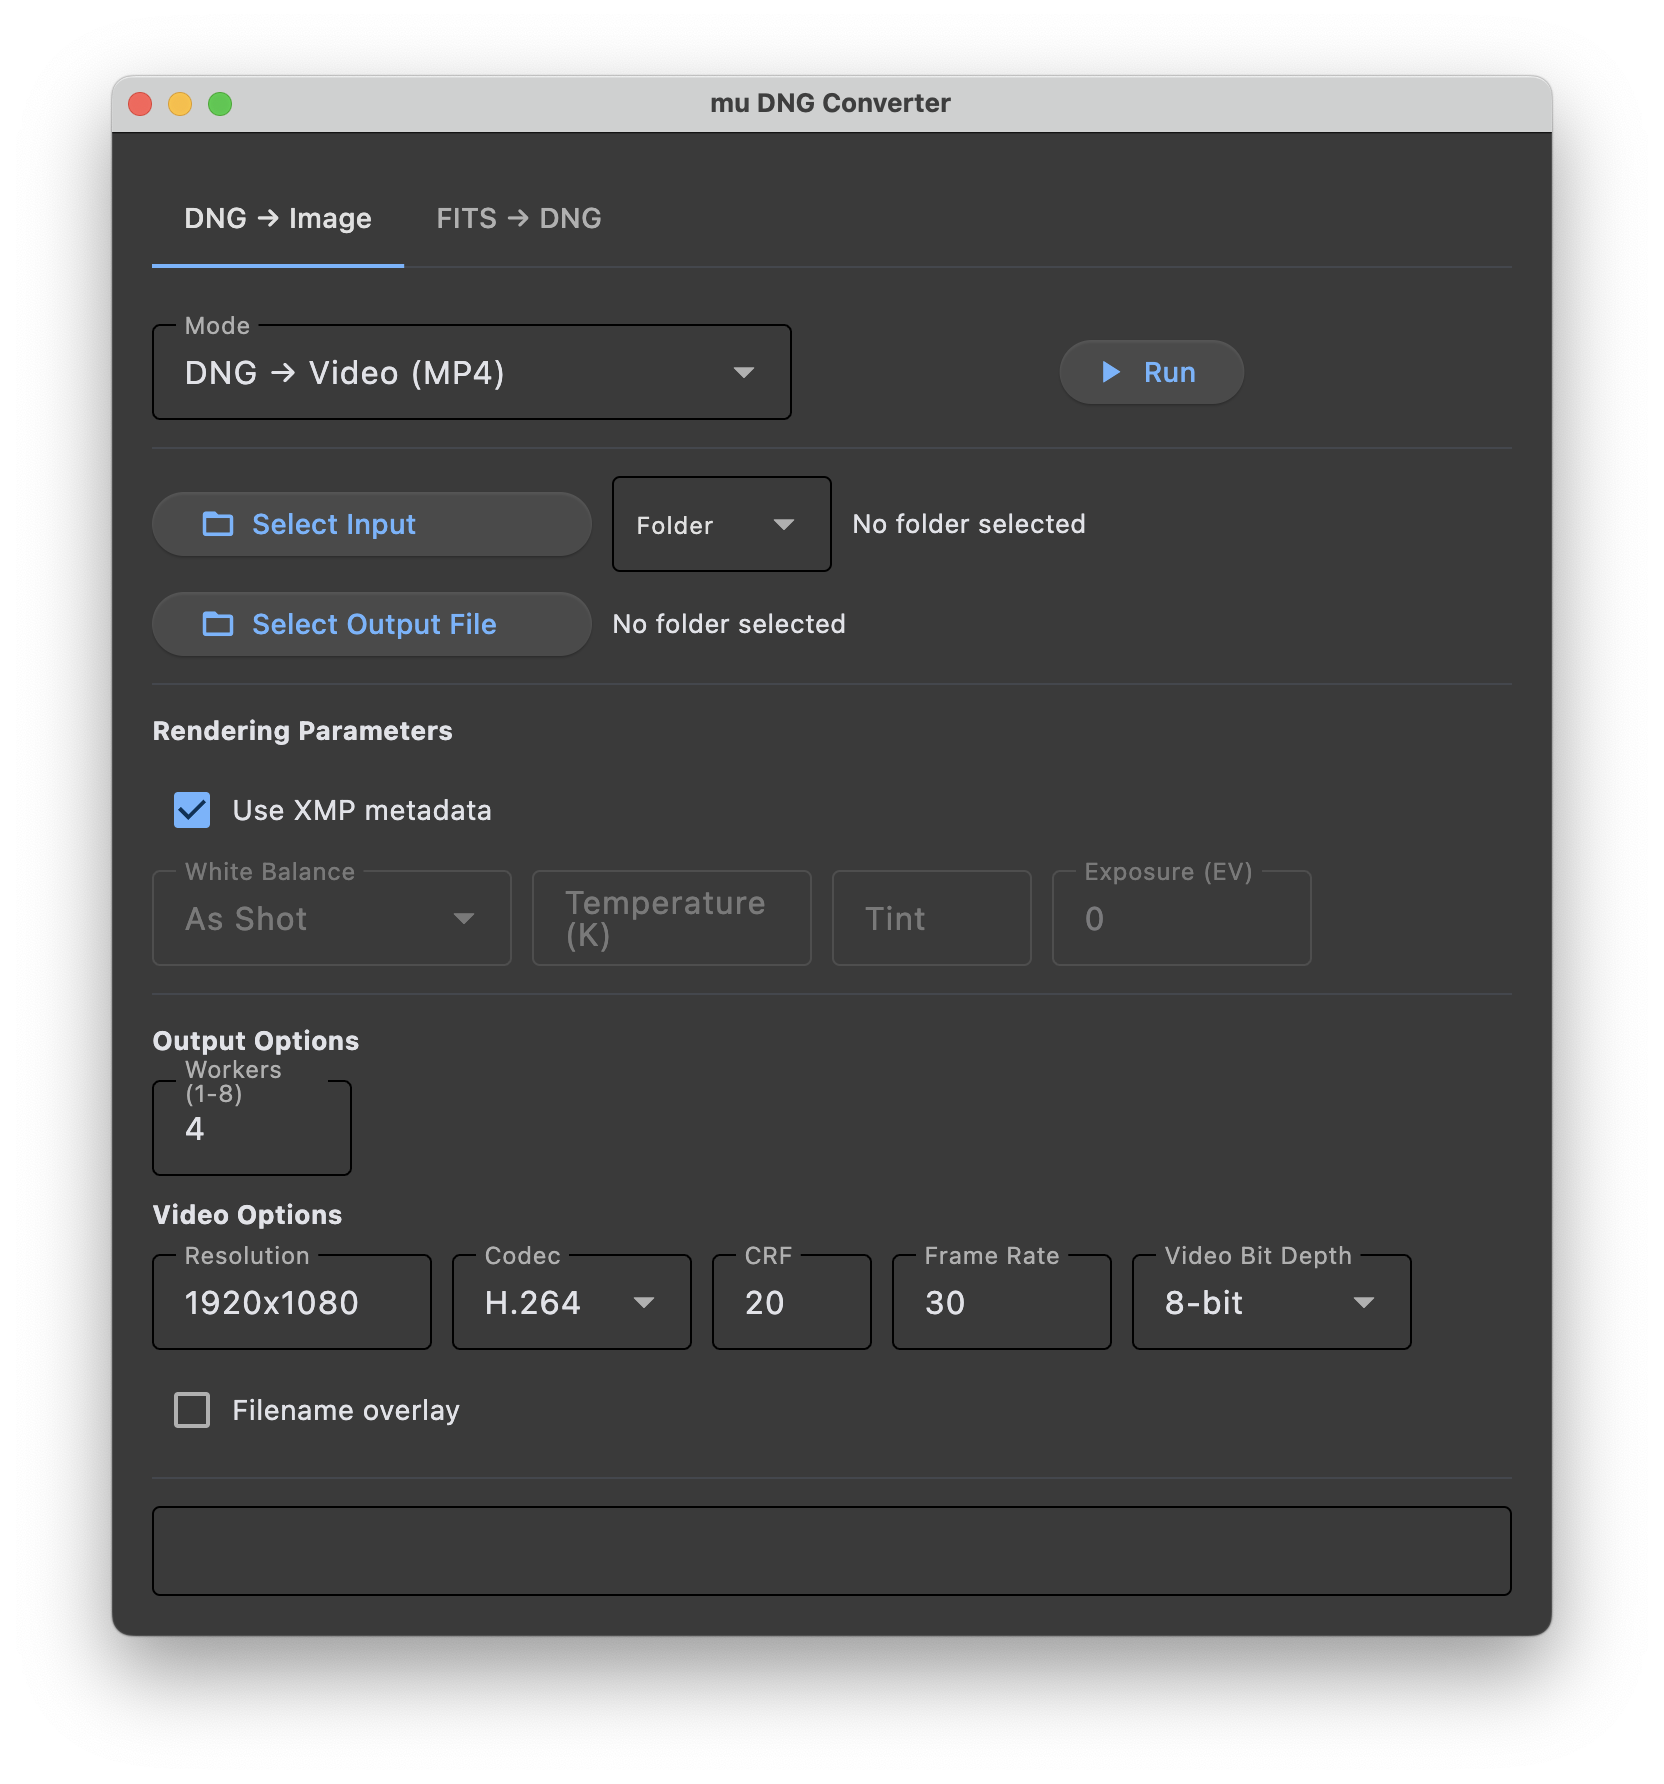
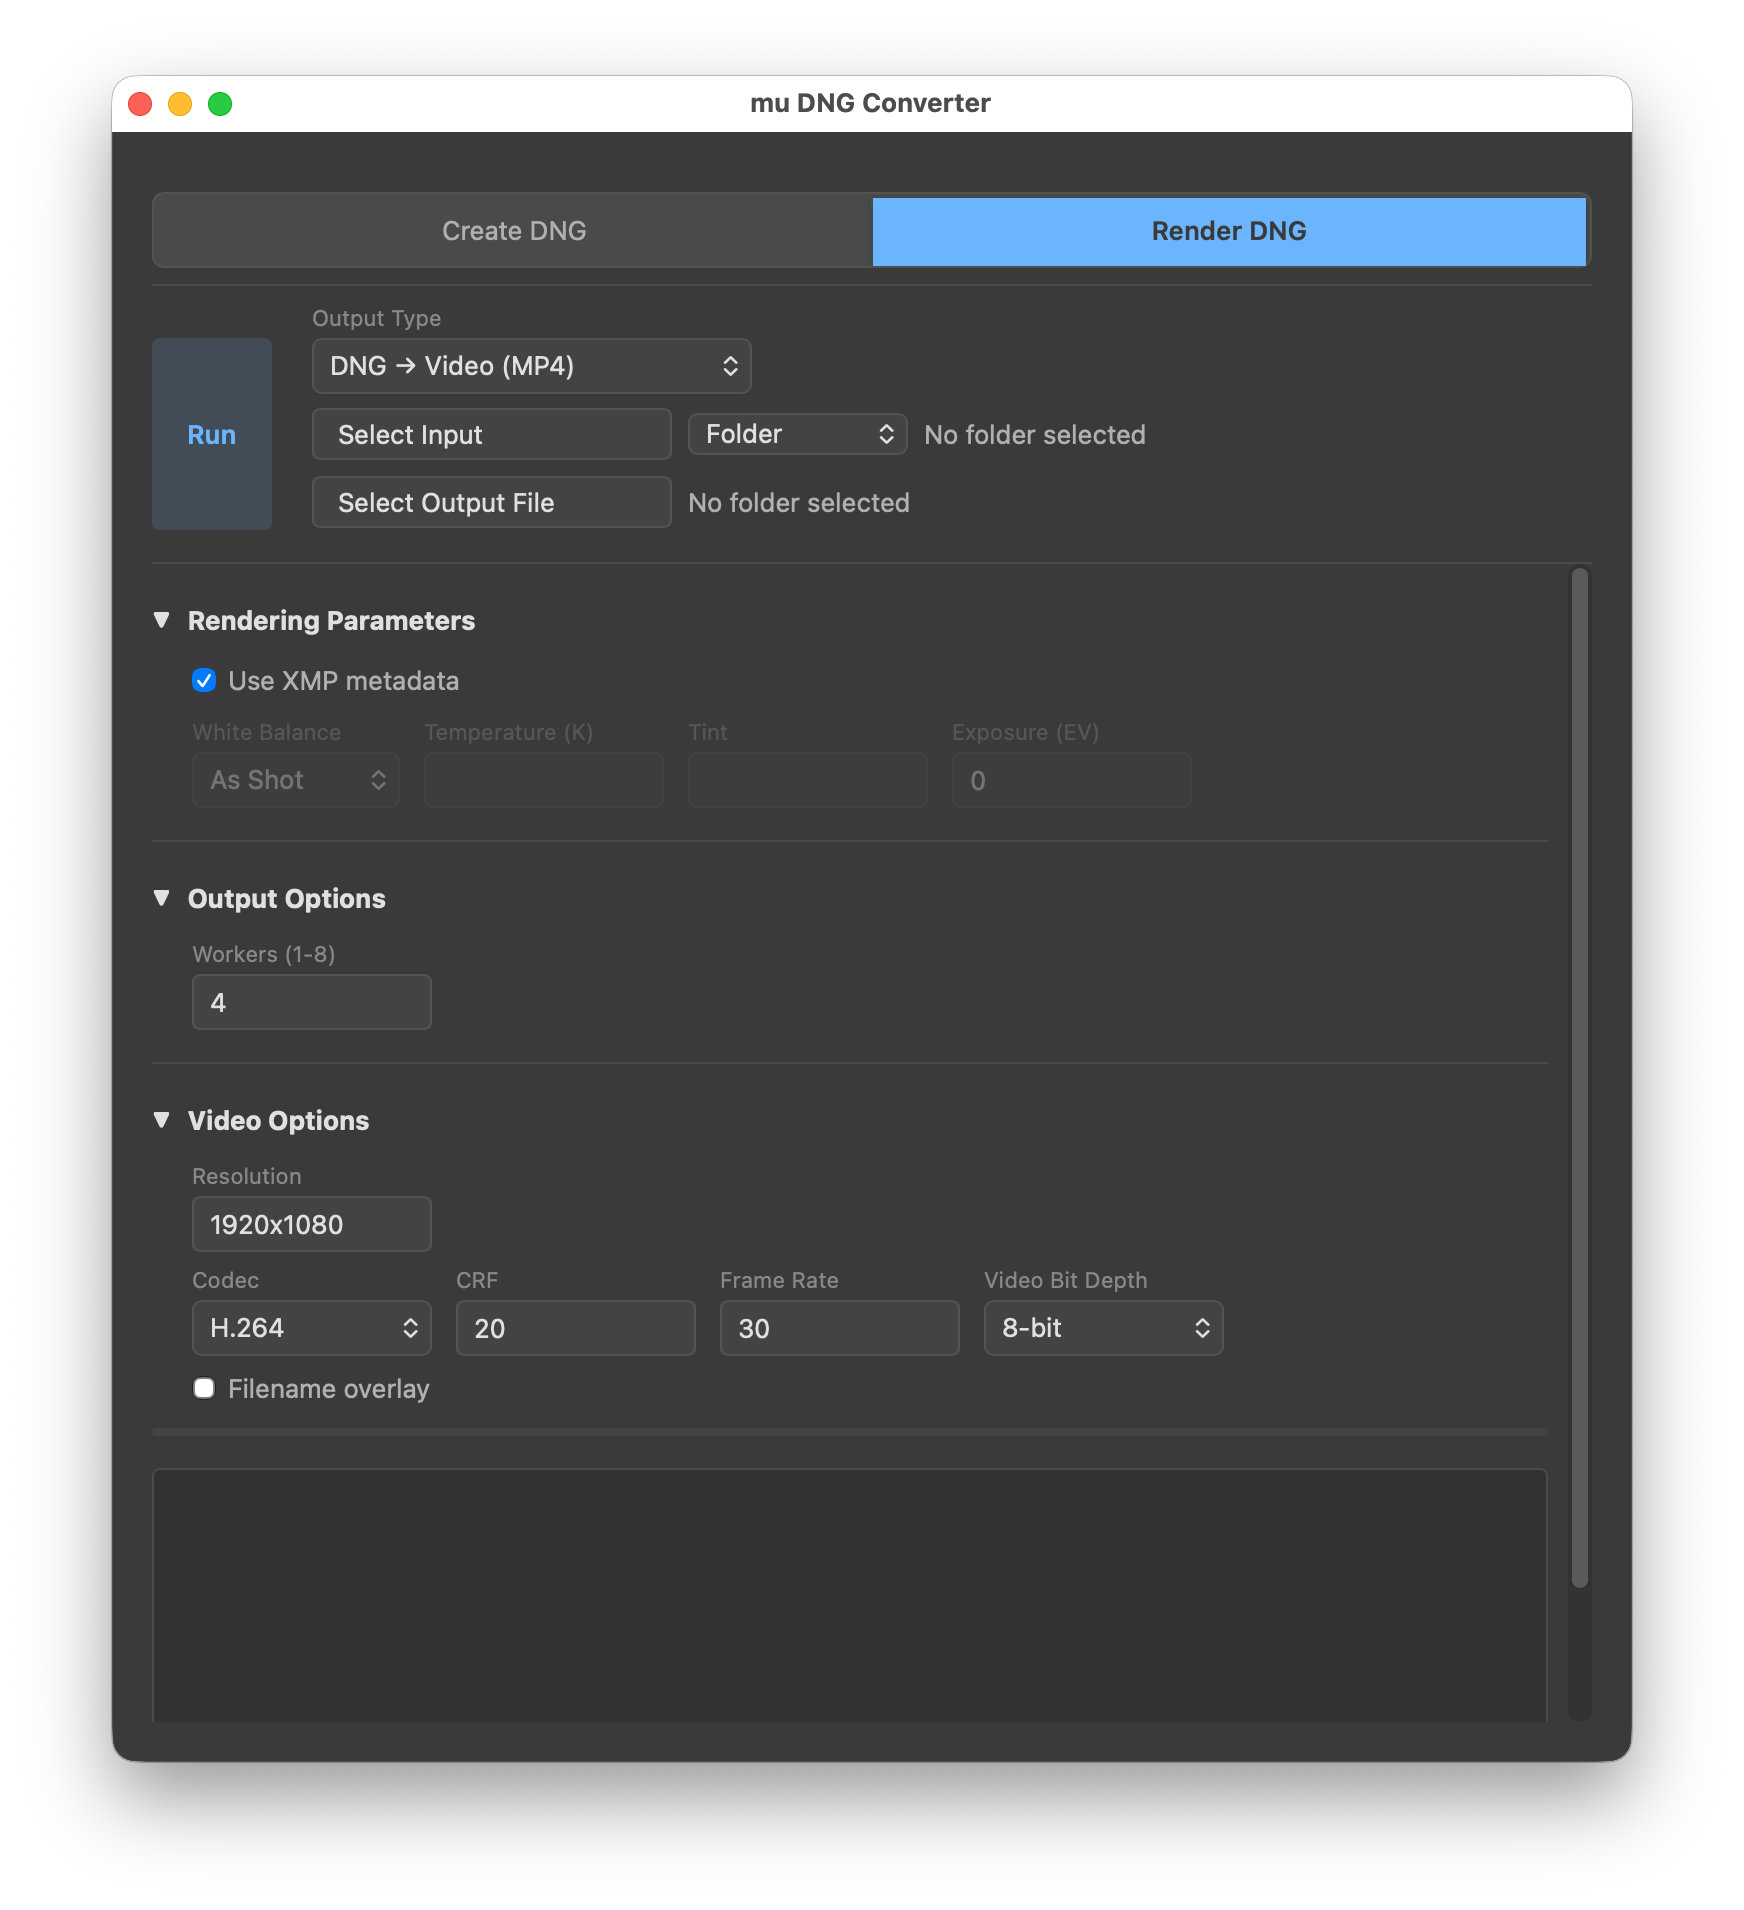
Update documentation: remove Flet references, add PyWebView, document Create DNG tab

diff --git a/mu-dng-converter/web/app.js b/mu-dng-converter/web/app.js
@@ -395,7 +395,7 @@ class DNGConverter {
             this.applyWBPreset('create-dng');
         });
 
-        // Value clamping — mirrors Flet's _clamp_float / _clamp_workers
+        // Value clamping for numeric inputs
         this.addClamp('create-dng-jxl-distance', 0.0, 25.0, 1.0);
         this.addClamp('create-dng-jxl-effort',   1,   9,   5);
         this.addClamp('create-dng-scale',         0.125, 1.0, 1.0);

diff --git a/mu-dng-converter/main.py b/mu-dng-converter/main.py
@@ -47,7 +47,7 @@ def main():
     web_dir = Path(__file__).parent / "web"
     index_file = web_dir / "index.html"
     
-    # Create a simple window with the same dimensions as Flet
+    # Create the main application window
     window = webview.create_window(
         title="mu DNG Converter",
         url=str(index_file),

diff --git a/mu-dng-converter/mu_dng_converter/webview_bridge.py b/mu-dng-converter/mu_dng_converter/webview_bridge.py
@@ -454,7 +454,7 @@ class WebViewBridge:
             # Clear overwrite action after it's been used
             settings.pop("overwriteAction", None)
 
-        # Rendering params — mirrors Flet's build_rendering_params
+        # Build rendering parameters from settings
         use_xmp = bool(settings.get("useXmp", True))
         rendering_params = {}
         if not use_xmp:

diff --git a/mu-dng-converter/README.md b/mu-dng-converter/README.md
@@ -3,53 +3,64 @@
 [![License: MIT](https://img.shields.io/badge/License-MIT-yellow.svg)](LICENSE)
 [![Releases](https://img.shields.io/github/v/release/mu-files/mu-image?label=Download)](https://github.com/mu-files/mu-image/releases/latest)
 
-A cross-platform desktop application for batch image conversion built on [muimg](../muimg/README.md) and [Flet](https://flet.dev).
+A cross-platform desktop application for batch image conversion built on [muimg](../muimg/README.md).
 
 [Download latest release](https://github.com/mu-files/mu-image/releases/latest)
 
-## DNG → Image
+## Create DNG
 
 <table><tr>
-<td><img src="docs/DNG-Image.png" width="480" alt="DNG to Image tab"></td>
-<td><img src="docs/DNG-Video.png" width="480" alt="DNG to Video mode"></td>
+<td><img src="docs/DNG-DNG.png" width="480" alt="DNG to DNG mode"></td>
+<td><img src="docs/FITS-DNG.png" width="480" alt="FITS to DNG mode"></td>
 </tr></table>
 
-Convert DNG files to TIFF or JPEG with full rendering control:
-- White balance (presets or custom temperature/tint)
-- Exposure adjustment
-- Output bit depth (8-bit or 16-bit)
-- Resolution scale (0.125–1.0)
-- Multi-threaded batch processing (1–8 workers)
-
-> **Output Mode**  
-> The mode selector at the top controls the output format. In addition to TIFF, JXL, and JPEG, selecting **Video** produces an MP4 from a DNG sequence — useful for timelapse or allsky footage. Video mode has its own codec, resolution, frame rate, and CRF controls.
-
-> **Use XMP**  
-> When enabled (default), white balance, exposure, and tone curve are read from the DNG's embedded XMP metadata — exactly as set in your RAW editor. Disable this to apply your own white balance and exposure overrides instead.
-
-> **Scale**  
-> Renders output at a fraction of full resolution (e.g. `0.5` = half size). Useful for generating quick previews or producing smaller deliverables without changing the source files.
-
-## FITS → DNG
-
-<img src="docs/FITS-DNG.png" width="480" alt="FITS to DNG tab">
-
-Convert astronomical FITS (with bayer patterns) to DNG for use in Photoshop and other RAW editors:
-- Auto exposure (histogram-based EV shift and black level estimation)
-- AVM XMP metadata mapping from FITS headers
-- Color temperature selection
-- Color space configuration
+Process and transcode DNG files or convert FITS files to DNG with full control:
+- Dual input support (DNG or FITS files)
+- Compression options (uncompressed, JXL lossless, JXL lossy)
+- Optional demosaic with algorithm selection
+- Resolution scaling (0.125–1.0)
+- Metadata operations (set/strip tags, time adjustments)
 - JPEG preview and fast-load pyramid embedding
 - Multi-threaded batch processing (1–8 workers)
 
-> **CFA (colour) images only**  
-> Only colour camera FITS files with a `BAYERPAT` header (e.g. RGGB, BGGR) are supported. Mono/grayscale images (narrowband Ha, L, OIII, etc.) are currently not supported and skipped.
+> **Input Type**  
+> Switch between DNG and FITS input. FITS is a pure RAW data format where the rendering settings (auto exposure, white balance, tone curve) are not in the file so are settable in the UI. Both CFA and mono/grayscale FITS input are accepted and UINT16, UINT32, and FLOAT32 data types are supported.
 
 > **Auto Exposure**  
 > FITS files from astronomical cameras often have no embedded exposure hint, causing RAW editors like Photoshop to render them nearly black. When enabled, Auto Exposure analyses the image histogram to estimate a black level (1st percentile) and an exposure shift (targeting ~6% brightness), so the image opens at a reasonable starting point. The `PEDESTAL` FITS header is used as the black level when present.
 
 > **AVM XMP Metadata**  
 > Astronomy Visualization Metadata (AVM) is a standard for embedding sky coordinates, instrument details, and observation data in image files. When FITS headers contain WCS coordinates (`CRVAL`, `CDELT`, etc.), object names, filter, or telescope information, these are mapped to AVM XMP tags in the output DNG — transferring these tags to downstream applications.
+
+> **Transcode/Encode Options**  
+> Re-encode DNGs with different compression (JXL lossless/lossy), optionally demosaic to linear RGB, and scale output resolution. Useful for reducing file size or preparing DNGs for specific workflows.
+
+> **Update Tags**  
+> Batch modify TIFF/DNG metadata tags. Set custom tags, strip unwanted tags, shift timestamps, or set timezone. Operations are applied to all output files.
+
+## Render DNG
+
+<table><tr>
+<td><img src="docs/DNG-Image.png" width="480" alt="DNG to Image tab"></td>
+<td><img src="docs/DNG-Video.png" width="480" alt="DNG to Video mode"></td>
+</tr></table>
+
+Convert DNG files to TIFF, JPEG, or MP4 video with some rendering control:
+- White balance (presets or custom temperature/tint)
+- Exposure adjustment
+- Output bit depth (8-bit or 16-bit)
+- Resolution scale (0.125–1.0)
+- Video encoding (codec, resolution, frame rate, CRF)
+- Multi-threaded batch processing (1–8 workers)
+
+> **Output Mode**  
+> The mode selector at the top controls the output format. In addition to TIFF and JPEG, selecting **Video** produces an MP4 from a DNG sequence — useful for timelapse or allsky footage. Video mode has its own codec, resolution, frame rate, and CRF controls.
+
+> **Use XMP**  
+> When enabled (default), white balance, exposure, crop, and tone curve are read from the DNG's embedded XMP metadata — exactly as set in your RAW editor. Disable this to apply your own white balance and exposure overrides instead.
+
+> **Scale**  
+> Renders output at a fraction of full resolution (e.g. `0.5` = half size). Useful for generating quick previews or producing smaller deliverables without changing the source files. In video mode scale is set by the resolution control.
 
 ## FITS → DNG CLI
 
@@ -111,8 +122,6 @@ python3 -m venv ~/mu-dng-converter-venv
 ~/mu-dng-converter-venv/bin/pip install "mu-dng-converter @ git+https://github.com/mu-files/mu-image.git#subdirectory=mu-dng-converter"
 ~/mu-dng-converter-venv/bin/mu-dng-converter
 ```
-
-> **First launch:** Flet downloads its desktop runtime on first run — this is a one-time operation and may take a minute.
 
 ### Developers
 

diff --git a/mu-dng-converter/CHANGELOG.md b/mu-dng-converter/CHANGELOG.md
@@ -6,6 +6,14 @@ The format is based on [Keep a Changelog](https://keepachangelog.com/en/1.0.0/).
 
 ## [Unreleased]
 
+### Changed
+- Migrated from Flet to PyWebView with custom HTML/CSS/JS interface
+- Added Create DNG tab for unified DNG→DNG and FITS→DNG conversion
+- Added metadata operations (set/strip tags, time shift, timezone)
+- Added transcode options (compression, demosaic, scale)
+- Added file vs folder input selection
+- Added overwrite policy handling with skip/overwrite prompt
+
 ### Fixed
 - **FITS→DNG**: Fixed monochrome preview JPEG encoding failure in batch/multi-threaded mode.
 
@@ -19,7 +27,7 @@ The format is based on [Keep a Changelog](https://keepachangelog.com/en/1.0.0/).
 ## [app-v0.1.20260529.1537] - 2026-05-29
 
 ### Added
-- Initial Flet-based GUI with batch DNG-to-TIF/JPEG conversion
+- Initial PyWebView-based GUI with batch DNG-to-TIF/JPEG conversion
 - Real-time progress bar and cancellation support
 - Configurable output format, bit depth, and white balance
 - Multi-worker parallel processing via `muimg` pipeline

diff --git a/.github/profile/README.md b/.github/profile/README.md
@@ -13,7 +13,7 @@ My software focuses heavily on **RAW image infrastructure, time-lapse compilatio
 | Repository / Module | Target Audience | Primary Focus |
 | :--- | :--- | :--- |
 | [**`muimg`**](https://github.com/mu-files/mu-image/tree/main/muimg) | Developers & Engineers | A Python library and CLI tool providing a comprehensive API for native Adobe DNG manipulation, custom RAW rendering pipelines, and parallel batch processing. |
-| [**`mu-dng-converter`**](https://github.com/mu-files/mu-image/tree/main/mu-dng-converter) | Astrophotographers & Editors | A lightweight, cross-platform desktop application built on Flet. Compiles raw DNG sequences into MP4 videos or tif seqeunces (ideal for timelapse footage) and converts astronomical FITS files to DNGs. Both source code and built installer packages are available. |
+| [**`mu-dng-converter`**](https://github.com/mu-files/mu-image/tree/main/mu-dng-converter) | Astrophotographers & Editors | A lightweight, cross-platform desktop application. Transcodes and processes DNGs (compression, metadata operations), renders DNG sequences into MP4 videos or image sequences (ideal for timelapse footage), and converts astronomical FITS files to DNGs. Both source code and built installer packages are available. |
 | [**`mu-rasppi`**](https://github.com/mu-files/mu-rasppi) | Raspberry Pi camera users | Example code and benchmarks for Raspberry Pi setups. Includes scripts to capture raw frames from ZWO ASI or Raspberry Pi HQ Camera cameras directly to DNG, and performance benchmarks against PiDNG. |
 
 ---

diff --git a/README.md b/README.md
@@ -7,7 +7,7 @@
 The repository contains two packages:
 
 - **[`muimg`](muimg/README.md)**: A Python library and CLI engine for Adobe DNG manipulation, rendering, metadata handling, and multi-threaded batch processing.
-- **[`mu-dng-converter`](mu-dng-converter/README.md)**: A cross-platform desktop GUI application built on `muimg` and [Flet](https://flet.dev) for batch-converting raw image folders, time-lapse sequences, and astronomical data.
+- **[`mu-dng-converter`](mu-dng-converter/README.md)**: A cross-platform desktop GUI application built on `muimg` and [PyWebView](https://pywebview.flowrl.com/) for batch-converting raw image folders, time-lapse sequences, and astronomical data.
 
 ---
 